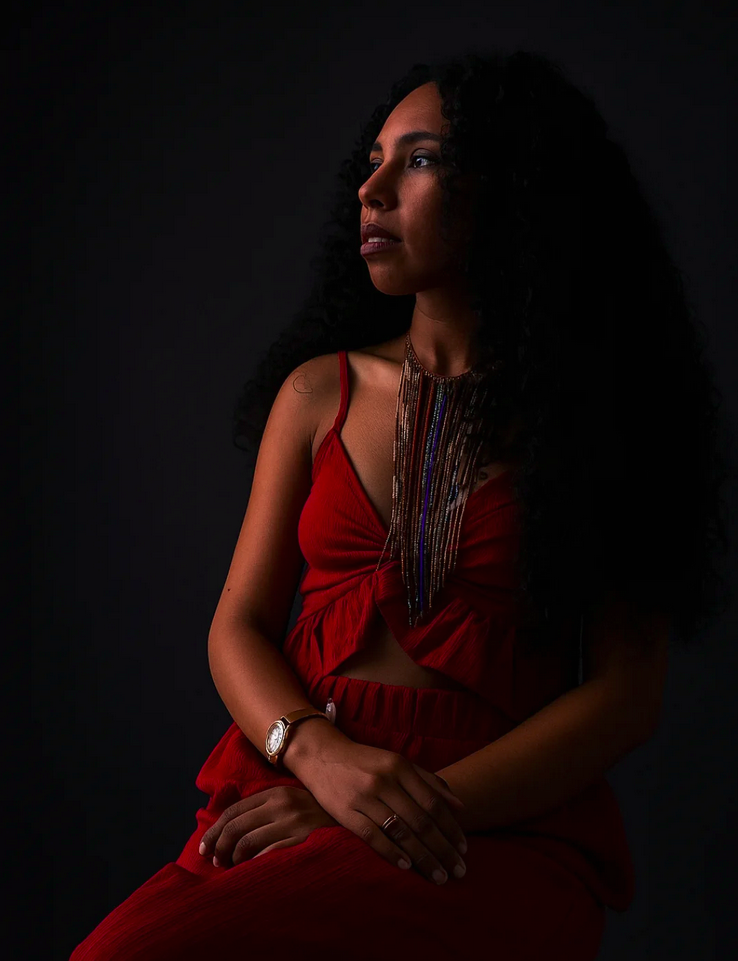
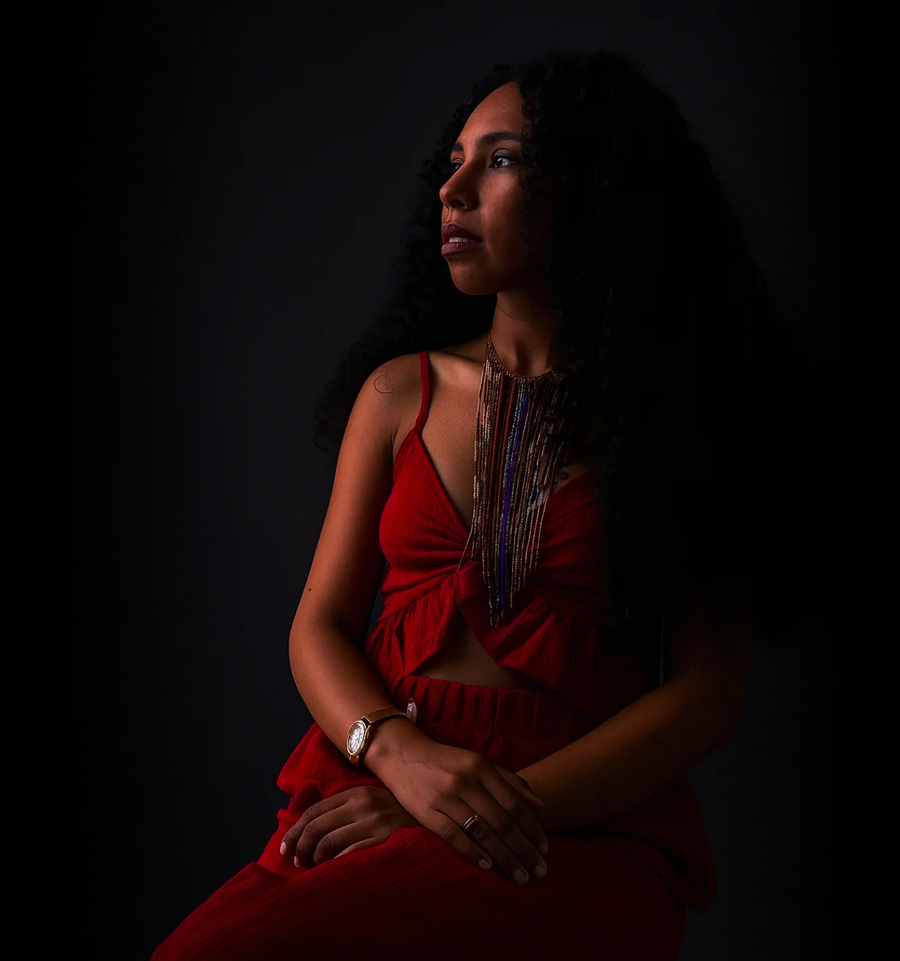
portret fix

diff --git a/styles.css b/styles.css
@@ -415,7 +415,7 @@ section {
 
 /* Artist Portrait Section */
 #artist-portrait {
-    background: linear-gradient(90deg, #070705 30%, #0b0a0e 100%);
+    background: #010101;
     padding: 0;
     text-align: center;
     overflow: hidden;
